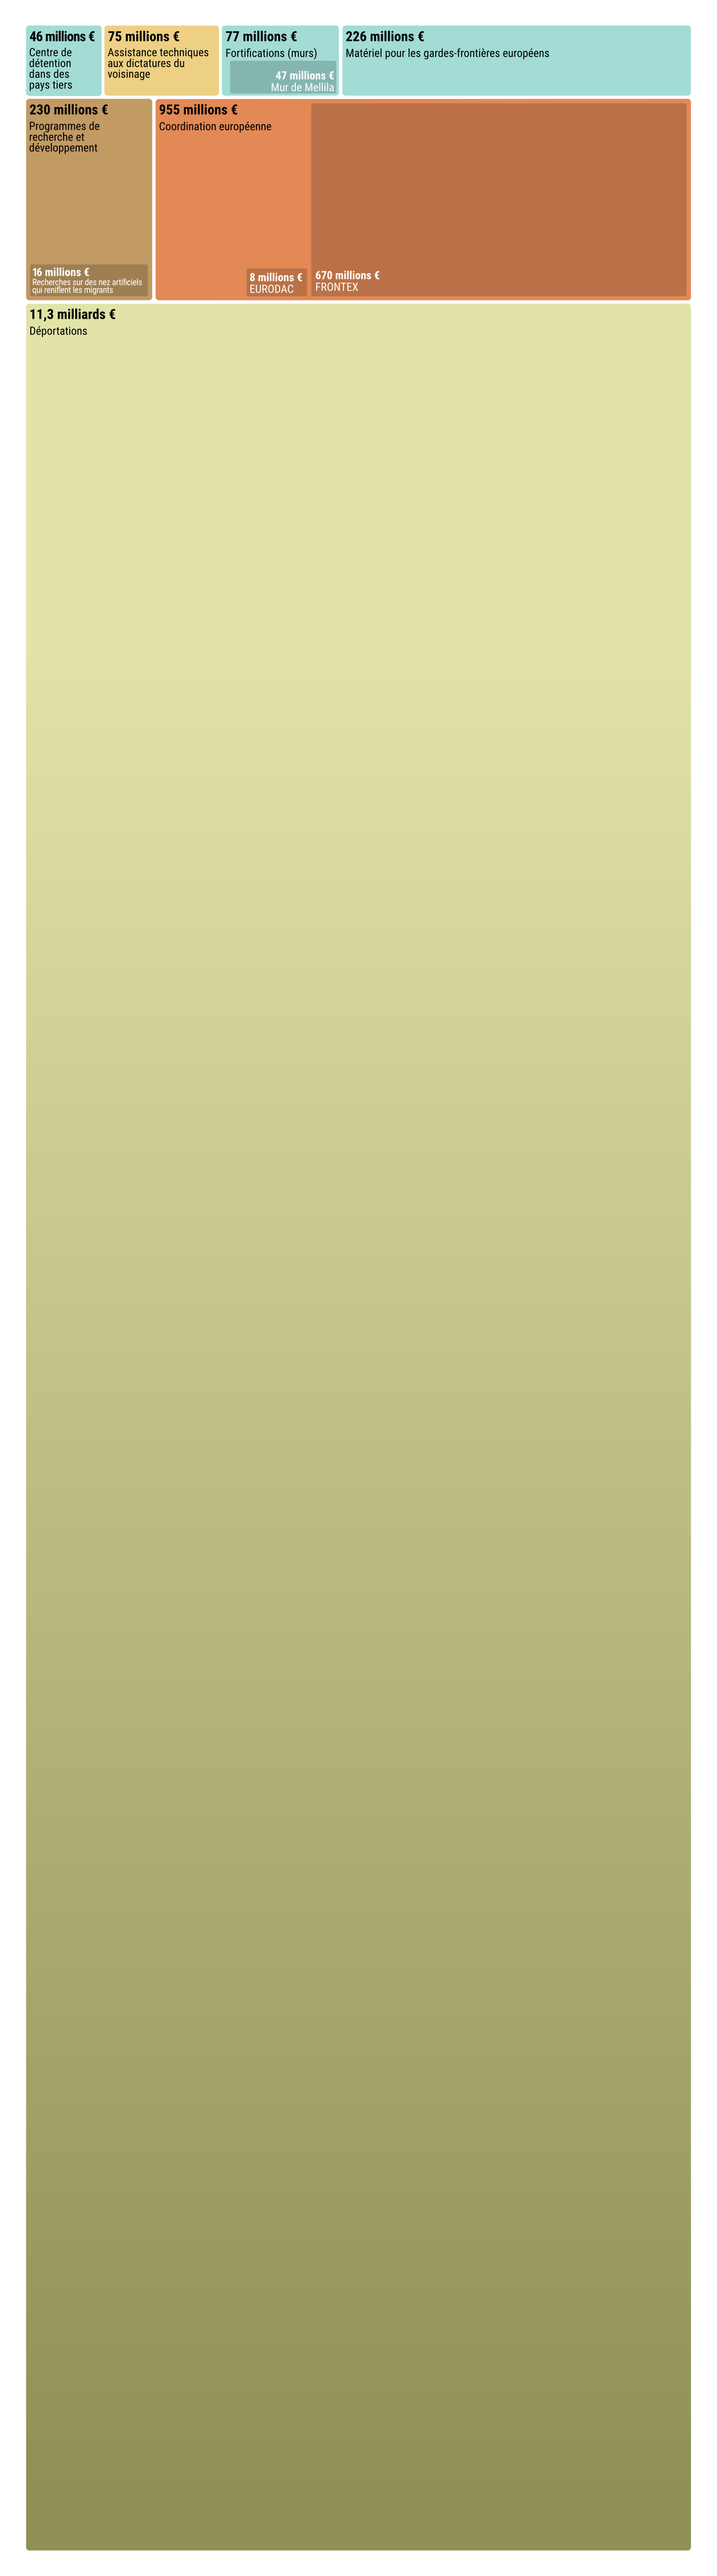
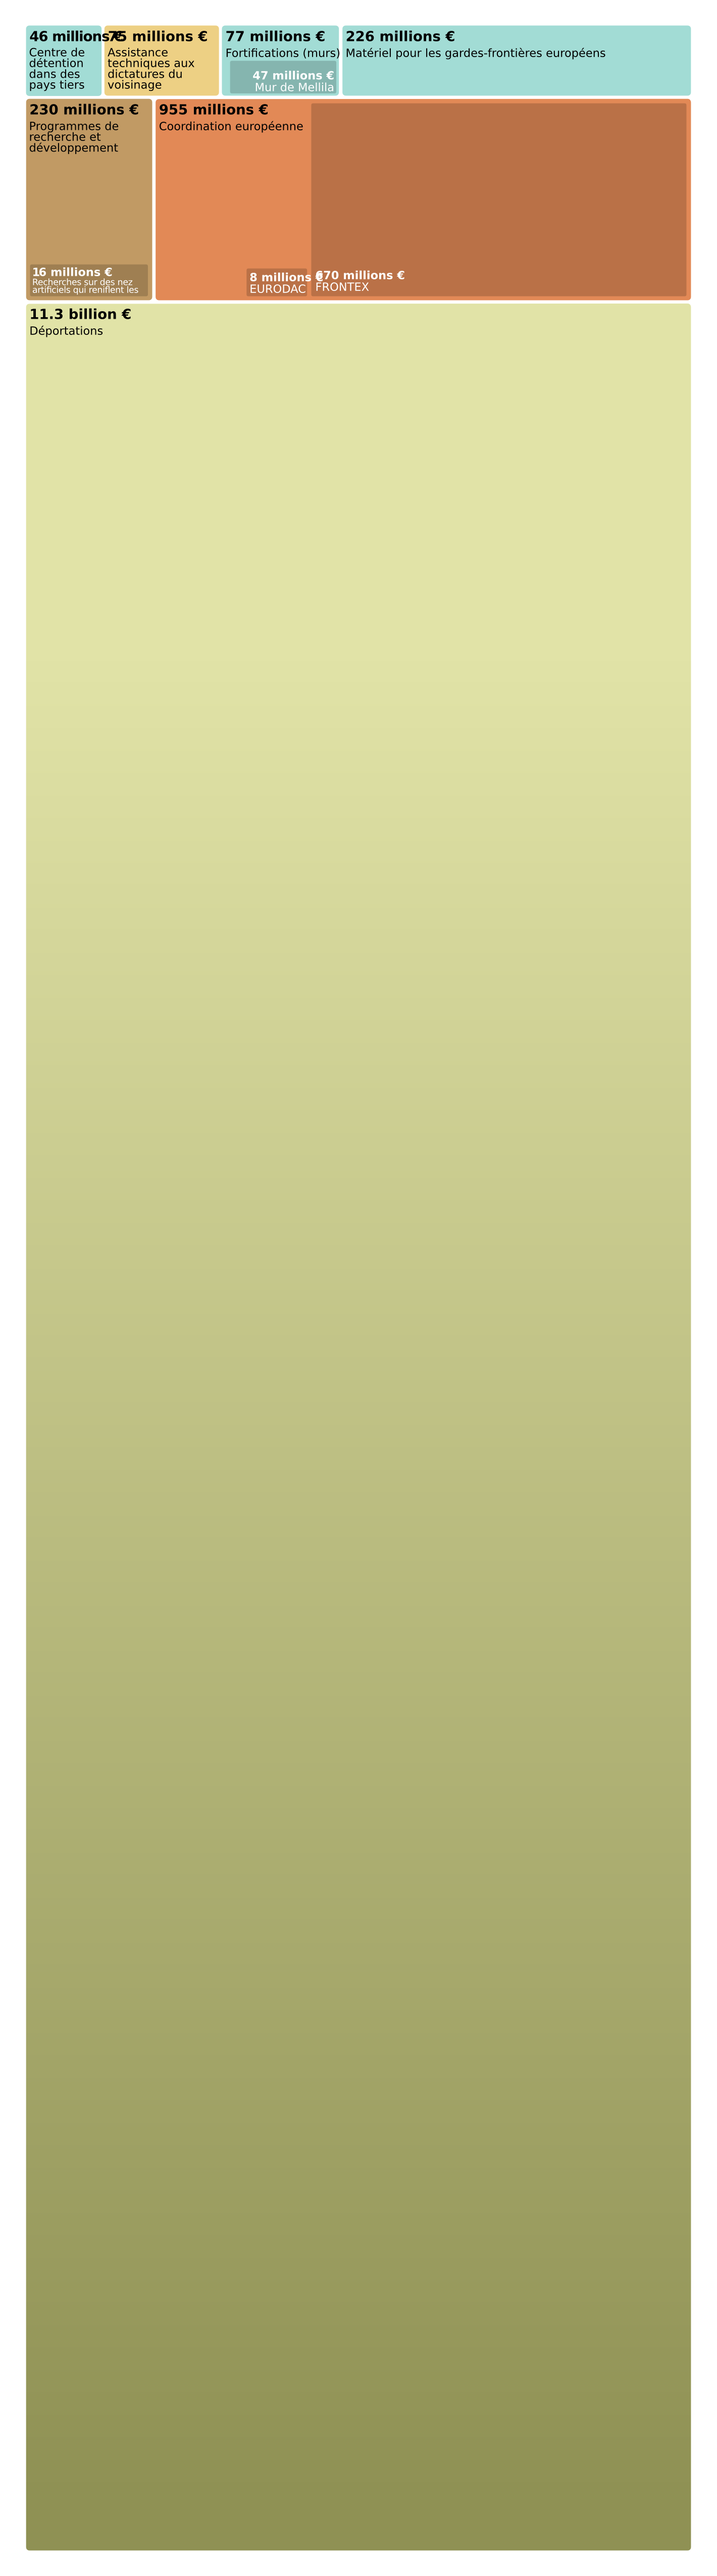
Updated languages

diff --git a/data/data2svg.py b/data/data2svg.py
@@ -27,7 +27,7 @@ for item in t_items:
 
 # Create SVG files for each language
 for lang in langs:
-    if lang == "en-US":
+    if lang == "en-US" or not lang in millions_trans:
         continue
     new_svg = svg
     new_svg = new_svg.replace("million", millions_trans[lang])
